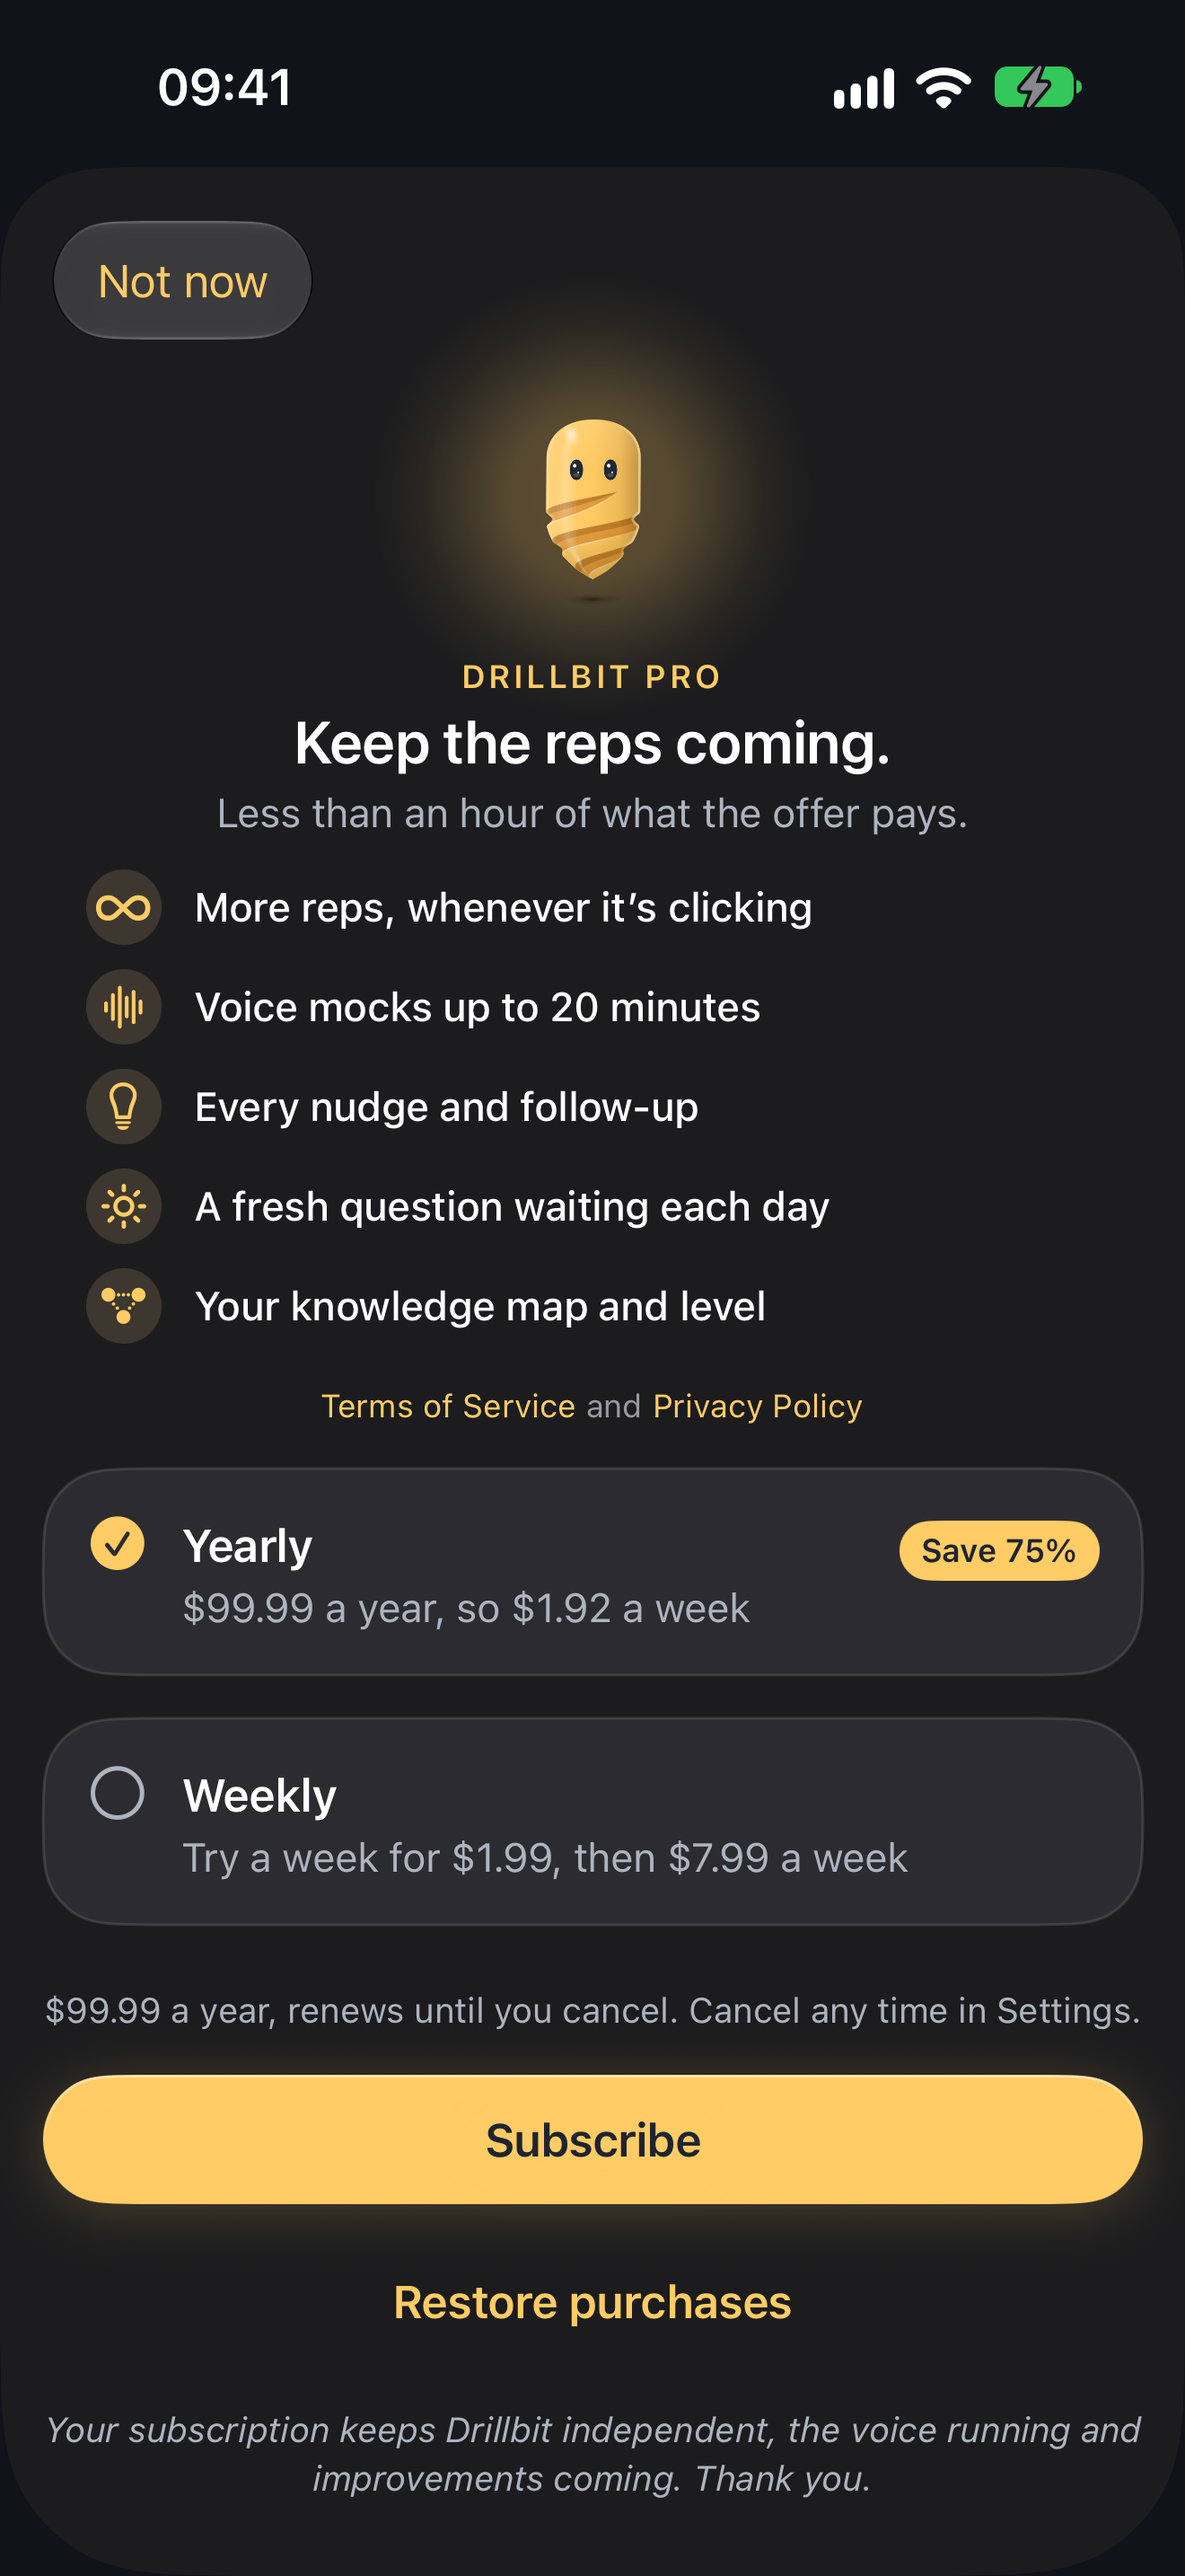
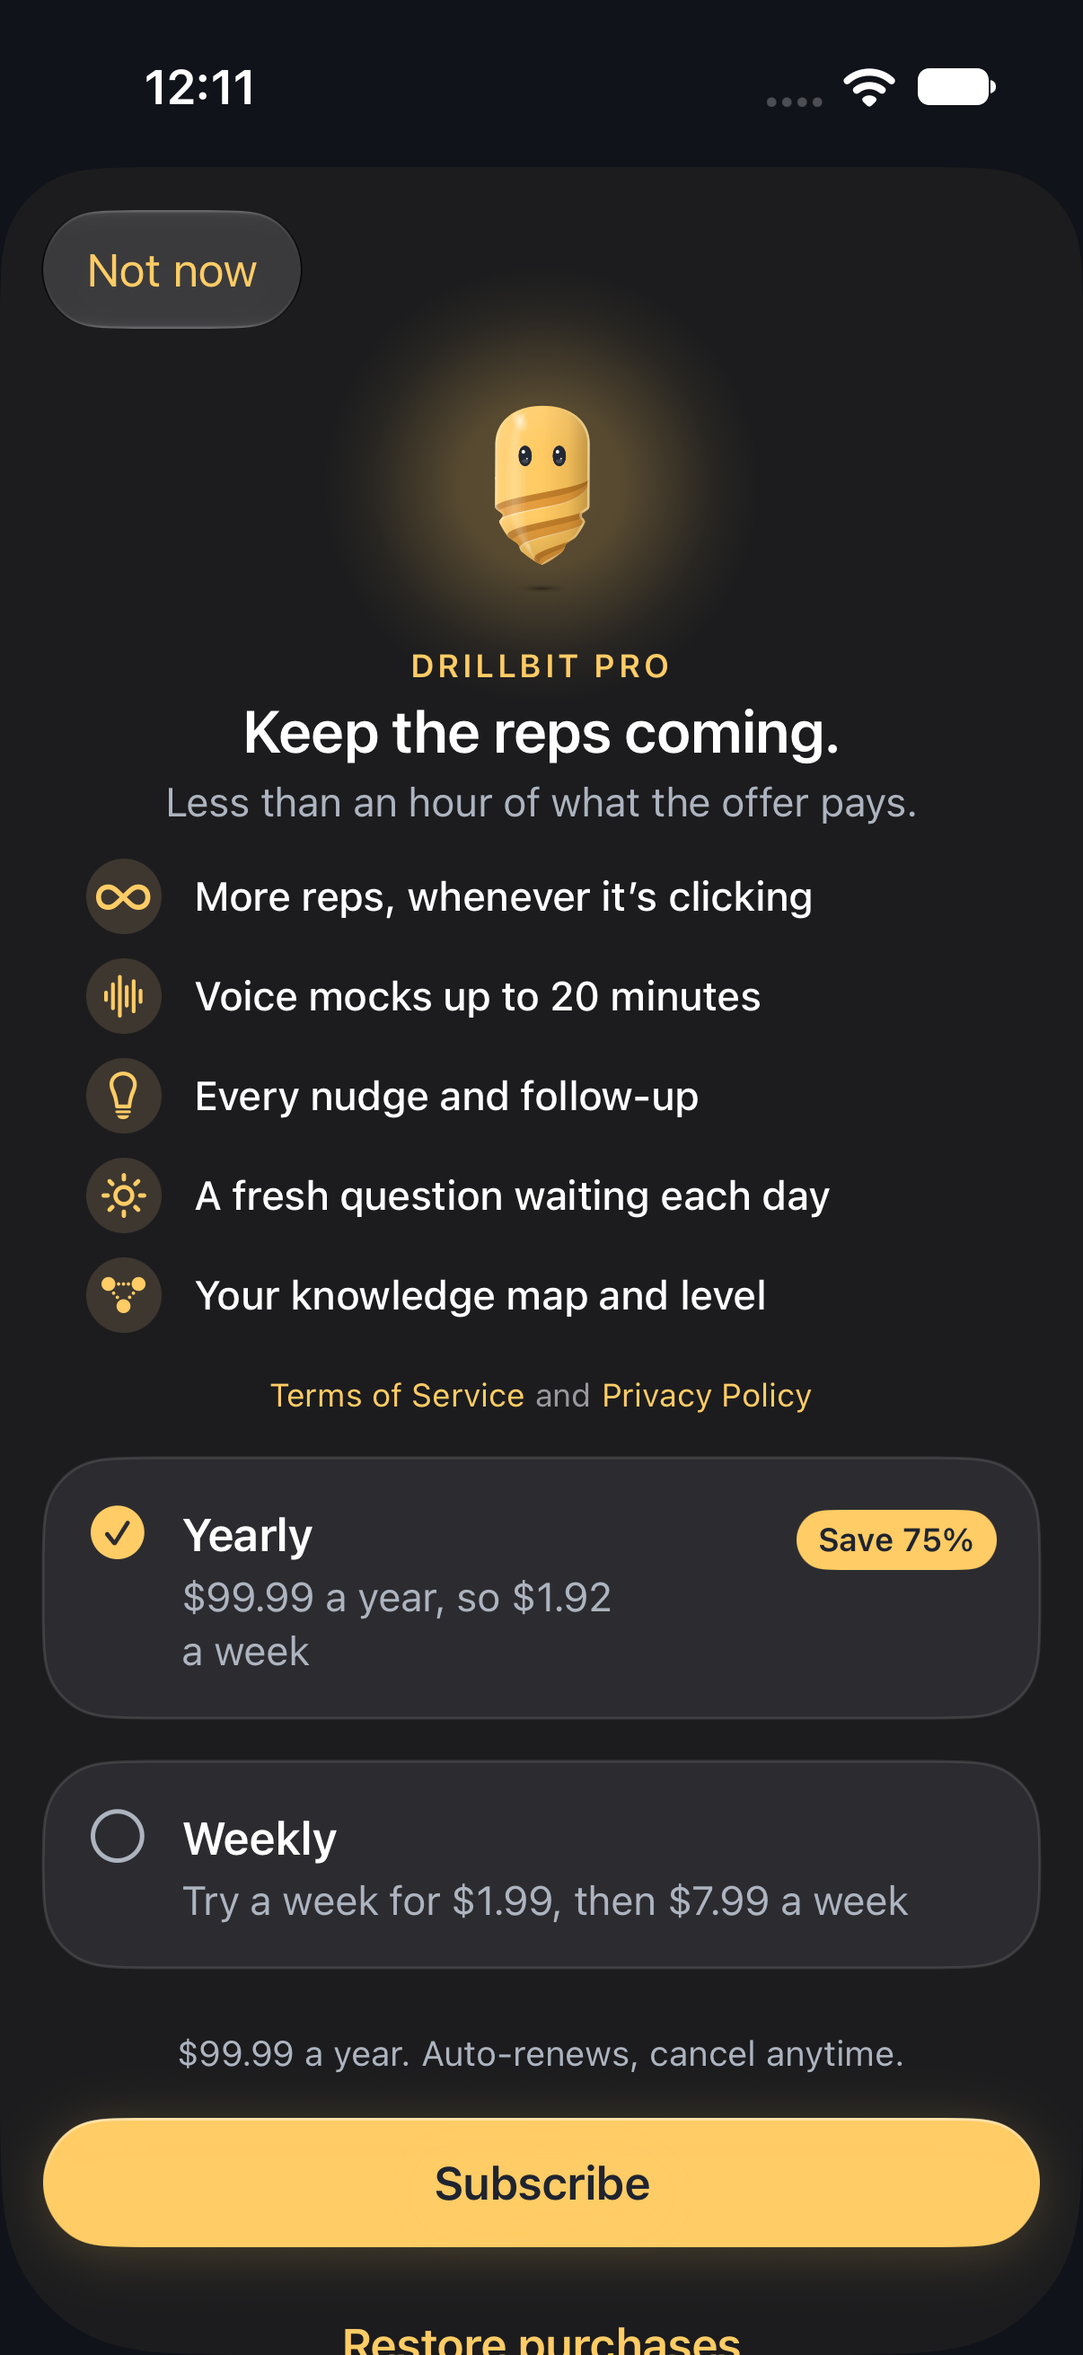
AI and your data is the disclaimer only; review screenshots
- Settings -> AI and your data shows the disclosure and nothing else: no
  switch, since Drillbit runs on its own keys.
- Customer fixtures hide the developer section, like real accounts.
- Review screenshots of the AI permission (first question, returning user,
  Settings) and a fresh paywall review shot with the one-line terms.

diff --git a/apps/ios/UITests/StoreScreenshots.swift b/apps/ios/UITests/StoreScreenshots.swift
@@ -101,6 +101,46 @@ final class StoreScreenshots: XCTestCase {
     return false
   }
 
+  /// For App Review (5.1.2(i)): where the third-party AI permission is asked, and where it can be read again.
+  func testAIConsentReviewScreenshots() throws {
+    // A new account: setup, then the first question is about to be written. Nothing has gone to a model yet.
+    var app = launch(["--fixtures", "--fixture-onboarding", "--fixture-no-ai-consent"])
+    XCTAssertTrue(app.staticTexts["Quick one. No wrong answers."].waitForExistence(timeout: 10))
+    app.buttons["The database"].tap()
+    for _ in 0..<6 { app.buttons["Continue"].tap() }
+    XCTAssertTrue(app.buttons["Show me my first question"].waitForExistence(timeout: 5))
+    app.buttons["Show me my first question"].tap()
+    XCTAssertTrue(app.buttons["aiConsentAgree"].waitForExistence(timeout: 10))
+    XCTAssertTrue(app.staticTexts["Bit runs on outside AI."].exists)
+    Thread.sleep(forTimeInterval: 1.2)
+    shot("review-ai-consent-first-question", app)
+    app.buttons["aiConsentAgree"].tap()
+    XCTAssertTrue(app.buttons["previewStart"].waitForExistence(timeout: 15), "Agreeing lets the first question be written")
+    app.terminate()
+
+    // Signed in without it (an update): Home is open; starting a question asks first.
+    app = launch(["--fixtures", "--fixture-home-rich", "--fixture-no-ai-consent"])
+    XCTAssertTrue(app.buttons["startPractice"].waitForExistence(timeout: 10))
+    app.buttons["startPractice"].tap()
+    XCTAssertTrue(app.buttons["previewStart"].waitForExistence(timeout: 5))
+    app.buttons["previewStart"].tap()
+    XCTAssertTrue(app.buttons["aiConsentAgree"].waitForExistence(timeout: 5))
+    Thread.sleep(forTimeInterval: 1.2)
+    shot("review-ai-consent-returning", app)
+    app.terminate()
+
+    // Settings → AI and your data: the same words, any time.
+    app = launch(["--fixtures", "--fixture-settings"])
+    let row = app.buttons["settingsAIData"]
+    for _ in 0..<8 where !row.exists || !row.isHittable { app.swipeUp() }
+    Thread.sleep(forTimeInterval: 0.6)
+    shot("review-ai-data-settings-row", app)
+    row.tap()
+    XCTAssertTrue(app.descendants(matching: .any)["aiDisclosure"].waitForExistence(timeout: 5))
+    Thread.sleep(forTimeInterval: 0.8)
+    shot("review-ai-data-settings", app)
+  }
+
   /// The subscription review screenshot App Store Connect asks for: the paywall with real plan options.
   func testPaywallReviewScreenshot() throws {
     let store = try SKTestSession(configurationFileNamed: "Drillbit")

diff --git a/apps/ios/Drillbit/WelcomeView.swift b/apps/ios/Drillbit/WelcomeView.swift
@@ -365,7 +365,7 @@ struct SignInView: View {
 
 /// Permission to send practice content to third-party AI (App Review 5.1.2(i)). Asked the first time something
 /// would actually go to an AI model (writing a question, opening an interview), never as a screen of its own. The
-/// answer lives in the Keychain, so it outlives a reinstall like the session does. Settings can take it back.
+/// answer lives in the Keychain, so it outlives a reinstall like the session does. Settings shows the words again.
 /// Fixtures keep it in memory: signed-in fixtures start agreed, signed-out ones start fresh.
 @MainActor @Observable final class AIConsent {
   static let shared = AIConsent()
@@ -404,13 +404,6 @@ struct SignInView: View {
     guard !fixture else { return }
     try? SharedStore.setSecret("granted", key: Self.key)
     UserDefaults.standard.set(true, forKey: Self.key)
-  }
-
-  func revoke() {
-    granted = false
-    guard !fixture else { return }
-    try? SharedStore.setSecret(nil, key: Self.key)
-    UserDefaults.standard.removeObject(forKey: Self.key)
   }
 
   /// True once there's permission. Without it, asks in a sheet over whatever is on screen and waits for the answer.
@@ -494,20 +487,15 @@ struct AIConsentSheet: View {
   }
 }
 
-/// Settings → AI and your data: the same words, and the switch to take permission back or give it.
+/// Settings → AI and your data: the same words the permission sheet shows, to read again any time.
 struct AIDataView: View {
-  private var consent: AIConsent { AIConsent.shared }
   var body: some View {
-    SignalList {
-      Section { AIDisclosure().listRowInsets(EdgeInsets()).listRowBackground(Color.clear) }
-      Section {
-        Toggle("Use outside AI", isOn: Binding(get: { consent.granted }, set: { $0 ? consent.grant() : consent.revoke() }))
-          .tint(AppPalette.accent)
-          .accessibilityIdentifier("aiConsentToggle")
-      } footer: {
-        Text(consent.granted ? "Turn it off and Bit asks again before anything else goes out." : "Off. Bit asks before anything goes out.")
-      }
+    ScrollView {
+      AIDisclosure()
+        .frame(maxWidth: 680).padding(20).frame(maxWidth: .infinity)
     }
+    .background(AppPalette.background)
+    .containerBackground(AppPalette.background, for: .navigation)
     .navigationTitle("AI and your data").navigationBarTitleDisplayMode(.inline)
   }
 }

diff --git a/apps/ios/UITests/PracticeUITests.swift b/apps/ios/UITests/PracticeUITests.swift
@@ -594,21 +594,17 @@ final class PracticeUITests: XCTestCase {
     app.buttons["aiConsentAgree"].tap()
     XCTAssertTrue(editor.waitForExistence(timeout: 8))
     app.terminate()
-    // Settings shows it above the legal links, and can take it back.
+    // Settings shows the same words above the legal links, and nothing to switch.
     app.launchArguments = ["--fixtures", "--fixture-settings"]
     app.launch()
     let row = app.buttons["settingsAIData"]
     for _ in 0..<8 where !row.exists || !row.isHittable { app.swipeUp() }
-    XCTAssertTrue(row.label.contains("On"), row.label)
     XCTAssertLessThan(row.frame.minY, app.buttons["settingsTerms"].exists ? app.buttons["settingsTerms"].frame.minY : app.links["settingsTerms"].frame.minY)
     capture("Settings AI and your data row", app)
     row.tap()
-    let toggle = app.switches["aiConsentToggle"]
-    XCTAssertTrue(toggle.waitForExistence(timeout: 5))
-    XCTAssertEqual(toggle.value as? String, "1")
+    XCTAssertTrue(app.descendants(matching: .any)["aiDisclosure"].waitForExistence(timeout: 5))
+    XCTAssertFalse(app.switches.firstMatch.exists, "Nothing to toggle: Drillbit runs on its own AI keys")
     capture("AI and your data", app)
-    toggle.coordinate(withNormalizedOffset: CGVector(dx: 0.92, dy: 0.5)).tap()
-    XCTAssertEqual(toggle.value as? String, "0")
   }
 
   func testSessionRestorationDoesNotShowSignIn() throws {

diff --git a/apps/ios/Drillbit/SettingsView.swift b/apps/ios/Drillbit/SettingsView.swift
@@ -137,7 +137,8 @@ struct SettingsView: View {
             ConfirmAction("Cancel"),
           ])
       }
-      if model.bootstrap?.capabilities?.developerTools == true || model.fixture {
+      // Fixtures carry the capability too, except customer ones, which show what a subscriber sees.
+      if model.bootstrap?.capabilities?.developerTools == true {
         DeveloperSettingsSection(model: model, appearance: $appearance, dismiss: { dismiss() })
       }
       Section {
@@ -155,9 +156,7 @@ struct SettingsView: View {
         Text("Feedback")
       }
       Section {
-        NavigationLink { AIDataView() } label: {
-          LabeledContent("AI and your data", value: AIConsent.shared.granted ? "On" : "Off")
-        }
+        NavigationLink("AI and your data") { AIDataView() }
         .accessibilityIdentifier("settingsAIData")
         Link("Terms of Use", destination: LegalLinks.terms).accessibilityIdentifier("settingsTerms")
         if let privacy = LegalLinks.privacy {

diff --git a/docs/app-store-readiness.md b/docs/app-store-readiness.md
@@ -16,7 +16,7 @@ Verification is reported in three levels, as the release gate in [operations.md]
 | --- | --- |
 | `PrivacyPolicyURL` is now copied into Info.plist (`project.yml`). Before this, `PRIVACY_POLICY_URL` never reached the app, so the paywall and Settings had no privacy link in any build. | 3.1.2: subscription apps need a working privacy link in the app. |
 | Release builds fail if `PRIVACY_POLICY_URL` isn't an `https://` URL. | Stops the mistake above from coming back. |
-| Third-party AI disclosure and consent, asked just in time: a sheet ("Bit runs on outside AI." → **Sounds good** / Not now) the first time a question would be written or an interview opened, and the API client refuses every AI route until it's given. No automatic generation runs without it. Settings → Legal → AI and your data shows it again and can turn it off. | 5.1.2(i), Nov 2025: you must name third-party AI and get explicit permission before any data is sent to it. |
+| Third-party AI disclosure and consent, asked just in time: a sheet ("Bit runs on outside AI." → **Sounds good** / Not now) the first time a question would be written or an interview opened, and the API client refuses every AI route until it's given. No automatic generation runs without it. Settings → Legal → AI and your data shows the same words any time. Screenshots for the review notes: `review-ai-consent-first-question.png`, `review-ai-consent-returning.png`, `review-ai-data-settings.png` in `docs/design/app-store/`. | 5.1.2(i), Nov 2025: you must name third-party AI and get explicit permission before any data is sent to it. |
 | `OPEN_SIGNUP=true` in production: new accounts are active without an invite. Development stays invite-only. | 2.1: reviewers can't use an invite-only app with no code, and paying customers can't either. |
 | Privacy policy and support pages served by the Worker at `/privacy` and `/support` (`apps/api/src/legal.ts`), contact `support@t23.dev`. | App Store Connect requires both URLs. |
 
@@ -149,7 +149,7 @@ Keep "fair use applies" next to "as much as you like": Pro has fair-use caps (10
 
 **App Review notes (paste and fill in):**
 
-> Sign in with Apple to create an account; no invite or demo code is needed. The first launch shows a short intro and a one-minute setup, then sign-in. Before the first question is written, a sheet asks permission to use third-party AI (OpenRouter for text, OpenAI for voice); nothing is sent to an AI model before that. Settings → AI and your data shows it again and can turn it off.
+> Sign in with Apple to create an account; no invite or demo code is needed. The first launch shows a short intro and a one-minute setup, then sign-in. Before the first question is written, a sheet asks permission to use third-party AI (OpenRouter for text, OpenAI for voice); nothing is sent to an AI model before that. Settings → AI and your data shows the same words any time. Screenshots of the permission sheet are attached.
 >
 > Subscriptions: free accounts get two questions in total. To reach the paywall, use Settings → See Pro, or finish two questions. Restore Purchases is on the paywall (Settings → See Pro).
 >

diff --git a/docs/architecture.md b/docs/architecture.md
@@ -720,5 +720,5 @@ Finish goes: the rep-done moment, then `ReflectionView` for everyone, then Home.
 
 The AI permission (App Review 5.1.2(i)) is no longer a screen of its own. `AIConsent.request()` asks in a sheet presented over whatever is on screen, the first time something would go to an AI model: `generateForPreview` (writing a question), `openForPreview` for a ready or in-progress rep (the interview), and `APIClient.request` for every AI route (`APIClient.usesAI`: generation, interview turns and retries, help, examples, coach, completion, voice, retry-moment, daily question, settings preview, job retry). "Not now" or a swipe down refuses with "That part runs on AI, so it needs your OK first." and nothing is sent; the next attempt asks again. Automatic preparation still waits for `granted`.
 
-The answer is kept in the shared Keychain (`aiConsent.v1`), so it outlives a reinstall like the Clerk session; an earlier UserDefaults answer is carried over. Settings → Legal → AI and your data shows the disclosure with a switch to turn it off. Sign-in and the root no longer carry the disclosure, and the Feedback section in Settings has no footer.
+The answer is kept in the shared Keychain (`aiConsent.v1`), so it outlives a reinstall like the Clerk session; an earlier UserDefaults answer is carried over. Settings → Legal → AI and your data shows the same disclosure, read-only: there's nothing to switch, since Drillbit runs on its own keys (no BYOK). Sign-in and the root no longer carry the disclosure, and the Feedback section in Settings has no footer.
 
